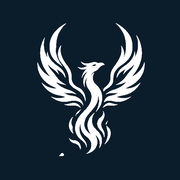
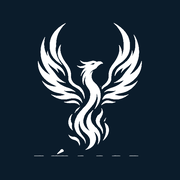
Unificar el dorado metálico en todos los textos y arreglar el ícono
- Nuevas clases reutilizables .text-gold (fondo oscuro) y .text-gold-dark
  (fondo claro) en index.css, con una única definición de degradé en
  vez de repetirla/duplicarla por componente
- Aplica el degradé a todos los textos dorados: eyebrow de cada sección,
  badge del Hero, WhatsApp/Email/Teléfono en Contacto, rol e iniciales
  de los socios en Nosotros. Los íconos SVG (que usan currentColor)
  quedan con su color plano para no volverse invisibles
- Corrige el recorte del ícono del fénix: el límite inferior invadía
  unos píxeles del texto "FÉNIX", lo que dejaba fragmentos de letras
  sueltos que se veían como un punto blanco desprendido. Ahora el
  recorte termina justo donde termina la cola de la llama, conservando
  la gota de brasa que es parte del diseño original
- Regenera favicon/apple-touch-icon/og-image a partir del ícono corregido

diff --git a/src/components/Contacto.jsx b/src/components/Contacto.jsx
@@ -50,7 +50,7 @@ export default function Contacto() {
                 <path d="M12.04 2C6.58 2 2.13 6.45 2.13 11.91c0 1.75.46 3.44 1.32 4.94L2 22l5.29-1.39a9.9 9.9 0 004.75 1.21h.01c5.46 0 9.9-4.45 9.9-9.91C21.96 6.45 17.5 2 12.04 2zm0 18.15h-.01a8.2 8.2 0 01-4.19-1.15l-.3-.18-3.14.82.84-3.06-.2-.32a8.2 8.2 0 01-1.27-4.38c0-4.55 3.7-8.25 8.27-8.25 4.55 0 8.25 3.7 8.25 8.25 0 4.56-3.7 8.27-8.25 8.27zm4.52-6.19c-.25-.12-1.47-.72-1.7-.81-.23-.08-.39-.12-.56.13-.17.25-.64.81-.78.97-.14.17-.29.19-.53.06-.25-.12-1.05-.39-2-1.23-.74-.66-1.24-1.47-1.38-1.72-.15-.25-.02-.38.11-.51.11-.11.25-.29.37-.43.12-.15.16-.25.25-.42.08-.17.04-.31-.02-.43-.06-.12-.56-1.36-.77-1.86-.2-.48-.41-.42-.56-.43h-.48c-.17 0-.43.06-.66.31-.23.25-.86.85-.86 2.06 0 1.22.89 2.4 1.01 2.56.12.17 1.75 2.67 4.24 3.74.59.26 1.05.41 1.41.52.59.19 1.13.16 1.56.1.48-.07 1.47-.6 1.67-1.18.21-.58.21-1.07.15-1.18-.06-.1-.23-.16-.48-.28z" />
               </svg>
             </span>
-            <span className="text-sm font-semibold text-ember-300">WhatsApp</span>
+            <span className="text-gold text-sm font-semibold">WhatsApp</span>
             <span className="text-sm text-slate-200">Escribinos ahora</span>
           </a>
           <a
@@ -63,7 +63,7 @@ export default function Contacto() {
                 <path strokeLinecap="round" strokeLinejoin="round" d="M3.75 6.75l8.25 6.5 8.25-6.5" />
               </svg>
             </span>
-            <span className="text-sm font-semibold text-ember-300">Email</span>
+            <span className="text-gold text-sm font-semibold">Email</span>
             <span className="text-sm text-slate-200">{EMAIL}</span>
           </a>
           <div className="group flex flex-col items-center gap-3 rounded-2xl bg-white/5 p-6 text-center ring-1 ring-inset ring-white/10 backdrop-blur transition-all duration-300 hover:-translate-y-1 hover:bg-white/10 hover:ring-ember-300/40 hover:shadow-lg hover:shadow-ember-900/20">
@@ -72,7 +72,7 @@ export default function Contacto() {
                 <path strokeLinecap="round" strokeLinejoin="round" d="M2.25 6.75c0 8.284 6.716 15 15 15h1.5a1.5 1.5 0 001.5-1.5v-2.291a1.125 1.125 0 00-.852-1.09l-4.036-1.01a1.125 1.125 0 00-1.173.417l-.97 1.293a11.25 11.25 0 01-6.038-6.037l1.294-.971a1.125 1.125 0 00.416-1.173L8.85 3.352a1.125 1.125 0 00-1.091-.852H5.47a1.5 1.5 0 00-1.5 1.5v2.25z" />
               </svg>
             </span>
-            <span className="text-sm font-semibold text-ember-300">Teléfono</span>
+            <span className="text-gold text-sm font-semibold">Teléfono</span>
             <span className="text-sm text-slate-200">{TELEFONO}</span>
           </div>
         </div>

diff --git a/src/components/ui/Logo.jsx b/src/components/ui/Logo.jsx
@@ -10,17 +10,7 @@ export default function Logo({
 }) {
   const isLight = variant === 'light'
   const nameColor = isLight ? 'text-white' : 'text-fenixNavy-900'
-
-  const taglineStyle = isLight
-    ? {
-        backgroundImage:
-          'linear-gradient(120deg, #fdf6ea 0%, #eab654 22%, #9c621a 45%, #f3d48c 62%, #c17d1f 80%, #fdf6ea 100%)',
-        WebkitBackgroundClip: 'text',
-        backgroundClip: 'text',
-        color: 'transparent',
-      }
-    : undefined
-  const taglineColor = isLight ? '' : 'text-ember-600'
+  const taglineColor = isLight ? 'text-gold' : 'text-gold-dark'
 
   return (
     <div className={`flex ${stacked ? 'flex-col items-center text-center' : 'items-center'} ${gap}`}>
@@ -29,10 +19,7 @@ export default function Logo({
         <p className={`font-serif font-bold tracking-wide ${nameClassName} ${nameColor}`}>
           ESTUDIO FÉNIX
         </p>
-        <p
-          className={`mt-1 font-semibold uppercase tracking-[0.16em] ${taglineColor} ${taglineClassName}`}
-          style={taglineStyle}
-        >
+        <p className={`mt-1 font-semibold uppercase tracking-[0.16em] ${taglineColor} ${taglineClassName}`}>
           Ramírez &amp; Marchioni
         </p>
       </div>

diff --git a/src/components/Nosotros.jsx b/src/components/Nosotros.jsx
@@ -28,12 +28,12 @@ function SocioCard({ socio, delay }) {
       style={{ animationDelay: `${delay}ms` }}
     >
       <div className="flex items-center gap-4">
-        <div className="flex h-14 w-14 shrink-0 items-center justify-center rounded-full bg-ember-400/15 font-serif text-lg font-bold text-ember-300 ring-1 ring-inset ring-ember-300/30 transition-transform duration-300 group-hover:scale-110">
-          {socio.initials}
+        <div className="flex h-14 w-14 shrink-0 items-center justify-center rounded-full bg-ember-400/15 ring-1 ring-inset ring-ember-300/30 transition-transform duration-300 group-hover:scale-110">
+          <span className="text-gold font-serif text-lg font-bold">{socio.initials}</span>
         </div>
         <div>
           <p className="font-serif text-lg font-bold text-white">{socio.nombre}</p>
-          <p className="text-sm text-ember-300">{socio.rol}</p>
+          <p className="text-gold text-sm">{socio.rol}</p>
         </div>
       </div>
       <p className="mt-4 text-sm leading-relaxed text-slate-300">{socio.bio}</p>

diff --git a/src/index.css b/src/index.css
@@ -13,3 +13,36 @@ body {
   -webkit-font-smoothing: antialiased;
   -moz-osx-font-smoothing: grayscale;
 }
+
+@layer utilities {
+  /* Texto dorado metálico: para usar sobre fondos oscuros (navy) */
+  .text-gold {
+    background-image: linear-gradient(
+      120deg,
+      #fdf6ea 0%,
+      #eab654 22%,
+      #9c621a 45%,
+      #f3d48c 62%,
+      #c17d1f 80%,
+      #fdf6ea 100%
+    );
+    -webkit-background-clip: text;
+    background-clip: text;
+    color: transparent;
+  }
+
+  /* Misma paleta pero más oscura, para usar sobre fondos claros (blanco) */
+  .text-gold-dark {
+    background-image: linear-gradient(
+      120deg,
+      #9c621a 0%,
+      #c17d1f 25%,
+      #7a4c17 50%,
+      #c17d1f 75%,
+      #9c621a 100%
+    );
+    -webkit-background-clip: text;
+    background-clip: text;
+    color: transparent;
+  }
+}

diff --git a/src/components/Hero.jsx b/src/components/Hero.jsx
@@ -26,7 +26,7 @@ export default function Hero() {
 
       <div className="relative mx-auto max-w-7xl px-4 py-24 sm:px-6 lg:px-8 lg:py-32">
         <div className="max-w-2xl">
-          <span className="inline-flex animate-fade-up items-center rounded-full bg-white/10 px-3 py-1 text-xs font-medium text-ember-200 ring-1 ring-inset ring-white/20 backdrop-blur motion-reduce:animate-none">
+          <span className="text-gold inline-flex animate-fade-up items-center rounded-full bg-white/10 px-3 py-1 text-xs font-medium ring-1 ring-inset ring-white/20 backdrop-blur motion-reduce:animate-none">
             Contable · Impositivo · Laboral
           </span>
           <h1

diff --git a/src/components/ui/SectionHeading.jsx b/src/components/ui/SectionHeading.jsx
@@ -7,7 +7,7 @@ export default function SectionHeading({ eyebrow, title, description, align = 'l
       {eyebrow && (
         <span
           className={`text-sm font-semibold uppercase tracking-wider ${
-            isDark ? 'text-ember-300 drop-shadow-[0_1px_3px_rgba(0,0,0,0.6)]' : 'text-ember-600'
+            isDark ? 'text-gold drop-shadow-[0_1px_3px_rgba(0,0,0,0.6)]' : 'text-gold-dark'
           }`}
         >
           {eyebrow}
